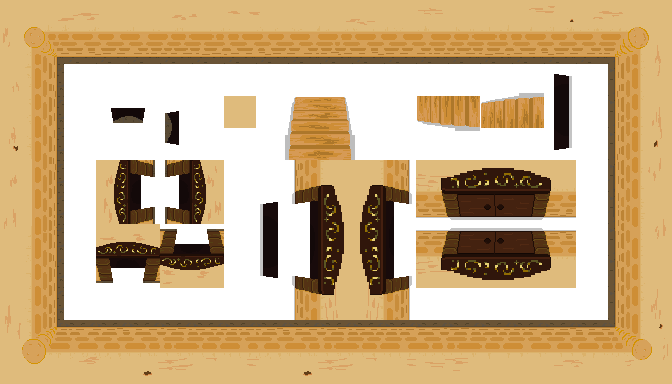
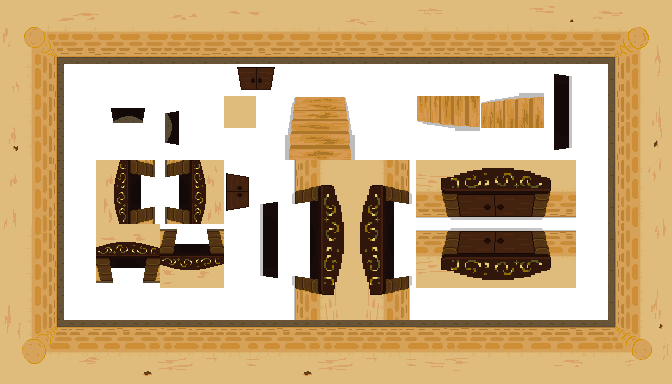
plat fini add door

Changed region(s): [[0.3125, 0.4375, 0.375, 0.5625], [0.3438, 0.1562, 0.4062, 0.25]]

diff --git a/index.html b/index.html
@@ -76,7 +76,7 @@
                 this.HpJoueur=3;
                 this.fallV=false;
                 this.tailleP=1;
-                this.speedconst = 1000;
+                this.speedconst = 140;
                 this.thune=0;
                 this.spawnS1=false;
                 this.salle1visit=false
@@ -116,7 +116,7 @@
                         tileset1,
                     ); 
 
-                const Calque = carteDuNiveau.createLayer(
+                this.Calque = carteDuNiveau.createLayer(
                         "Blocs",
                         tileset2,
                     );
@@ -172,6 +172,7 @@
                     frameRate: 5,
                     repeat: -1,
                 });
+                this.Calque.setDepth(-2)
 
                 carteDuNiveau.getObjectLayer('Spike').objects.forEach((spike) => {
                     // Add new spikes to our sprite group
@@ -533,6 +534,7 @@
                 this.ImagePlaque1="PlaquePressionon"
                 this.Plaque1.destroy()
                 this.Plaque1 = this.physics.add.image(882,1035,"PlaquePressionon")
+                this.Plaque1.setDepth(-1)
             }
 
             ActivPlaque2(){
@@ -540,6 +542,7 @@
                 this.Plaque2A=true
                 this.Plaque2.destroy()
                 this.Plaque2 = this.physics.add.image(625,1200,"PlaquePressionon")
+                this.Plaque2.setDepth(-1)
             }
 
             AttackM1(){               
